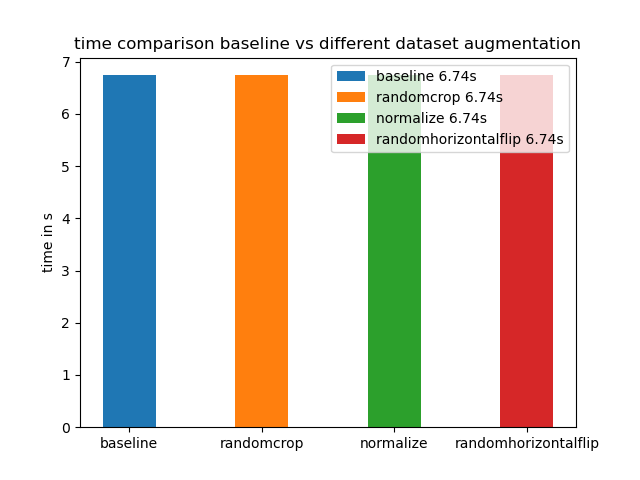
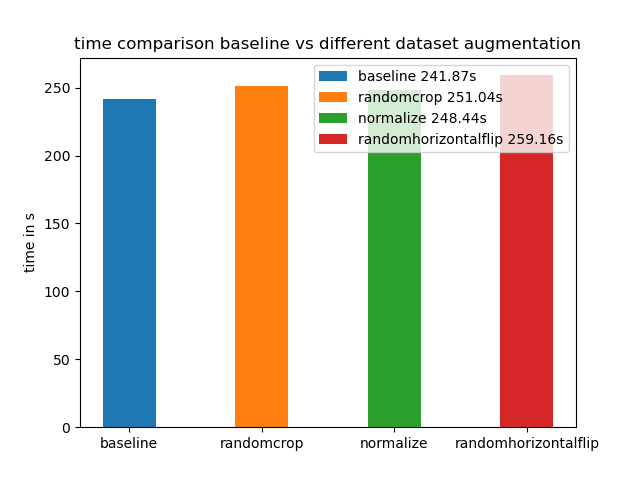
everything done woop :)

diff --git a/ex04/4_1/plot.py b/ex04/4_1/plot.py
@@ -198,10 +198,10 @@ def plotaugmenttime(data:dict, ) -> None:
     firstaugment_label = 'randomcrop'
     secondaugment_label = 'normalize'
     thirdaugment_label = 'randomhorizontalflip'
-    baseline_value = data['time'][-1]
-    firstaugment_value = data['time'][-1]
-    secondaugment_value = data['time'][-1]
-    thirdaugment_value = data['time'][-1]
+    baseline_value = data["augment_0"]['time'][-1]
+    firstaugment_value = data["augment_1"]['time'][-1]
+    secondaugment_value = data["augment_2"]['time'][-1]
+    thirdaugment_value = data["augment_3"]['time'][-1]
 
     # Position of the bars on the x-axis
     x_positions = [0, 1, 2, 3]  # Two positions: 0 for the left bar and 1 for the right bar
